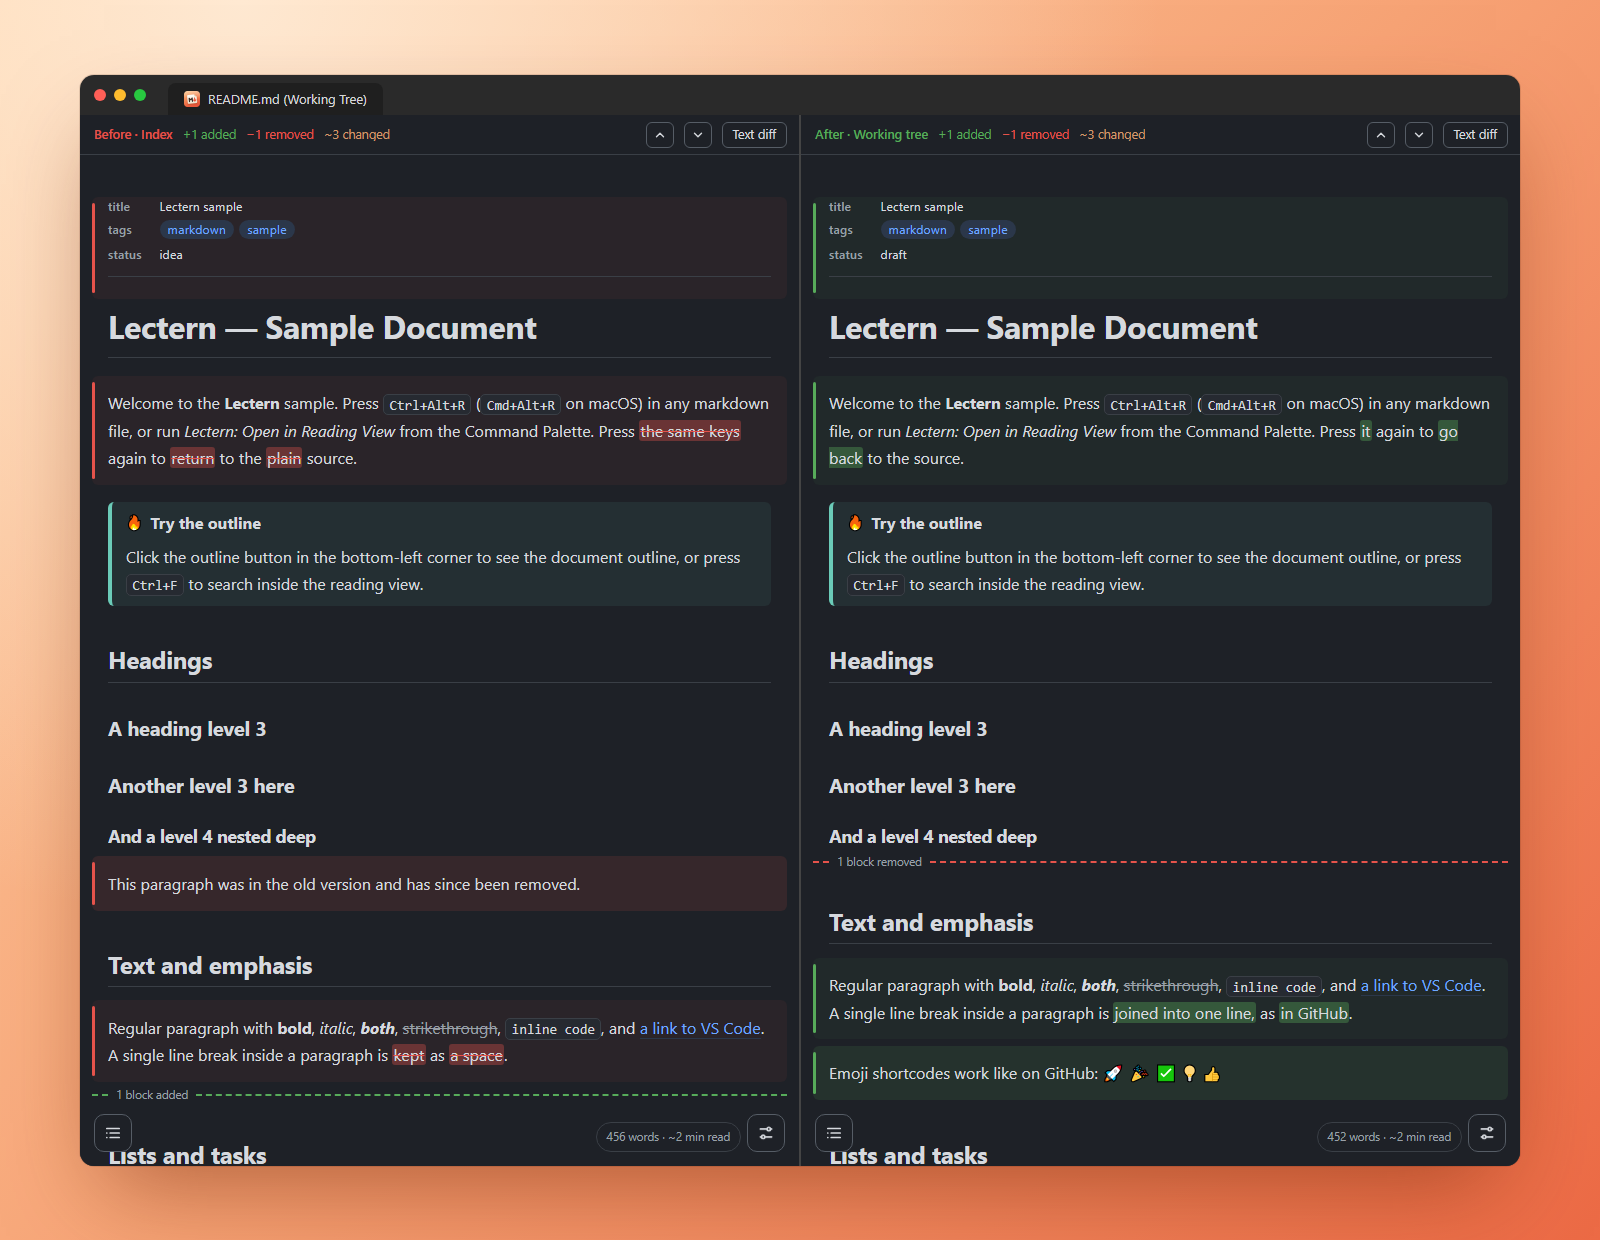
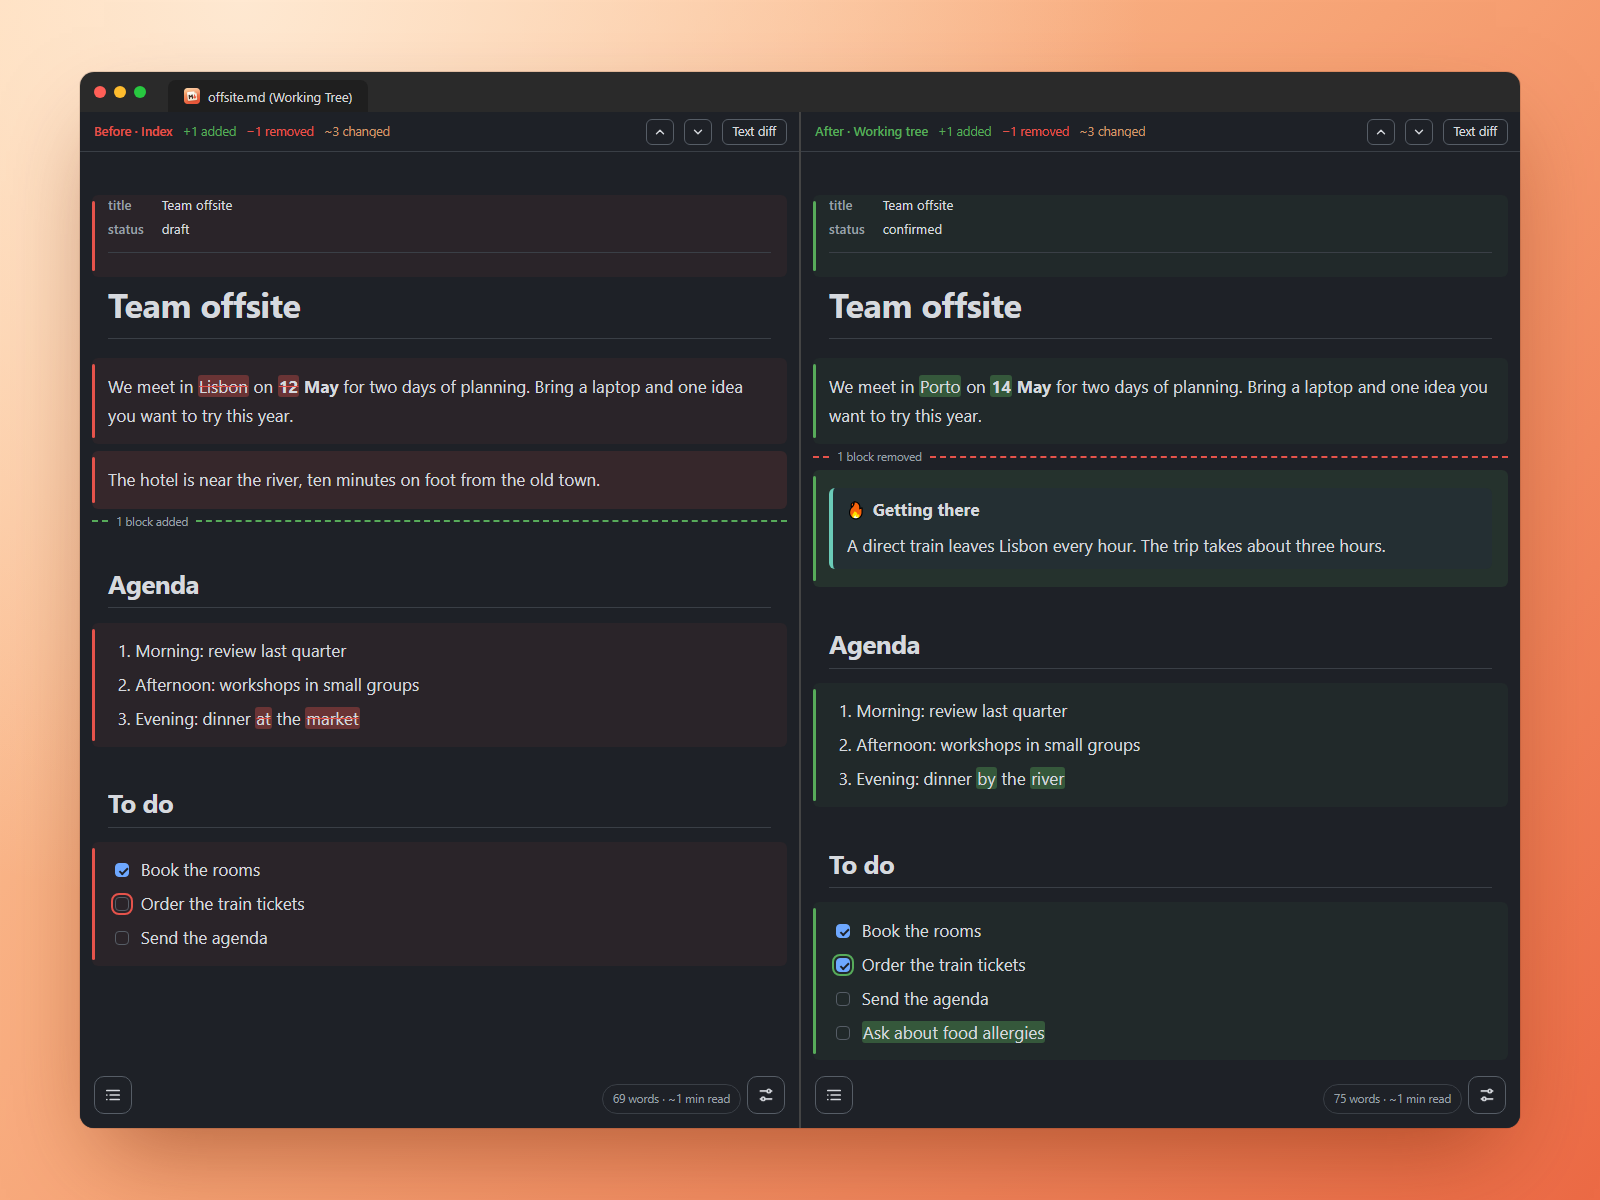
Show every kind of change in the diff screenshot, record a feature video
- README: the diff section comes first under Features, with a new screenshot
  of a short note that has changed words, a removed paragraph, an added
  callout, a ticked task and an added item (sample/diff/).
- Task rings match tasks by text, so they work when items were added too.
- screenshots.mjs --features records an MP4 and GIF of the new features.

diff --git a/src/webview/diffview.ts b/src/webview/diffview.ts
@@ -47,13 +47,19 @@ export function highlightWords(root: HTMLElement, summary: DiffSummary, info: Di
 
 /** Ring the task boxes that were ticked or unticked, which word marks can't show. */
 function markTaskChanges(block: HTMLElement, other: HTMLElement): void {
-  const mine = block.querySelectorAll<HTMLInputElement>("input.task-cb");
-  const theirs = other.querySelectorAll<HTMLInputElement>("input.task-cb");
-  if (mine.length !== theirs.length) {
-    return;
-  }
-  mine.forEach((cb, i) => {
-    if (cb.checked !== theirs[i].checked) {
+  const tasks = (el: HTMLElement) =>
+    [...el.querySelectorAll<HTMLInputElement>("input.task-cb")].map((cb) => ({
+      cb,
+      text: (cb.closest("li")?.textContent ?? "").trim(),
+    }));
+  const mine = tasks(block);
+  const theirs = tasks(other);
+  // Match tasks by their text, so items added or removed around them don't matter;
+  // a task whose text also changed is matched by position when the counts agree.
+  const byText = new Map(theirs.map((t) => [t.text, t.cb.checked]));
+  mine.forEach(({ cb, text }, i) => {
+    const was = byText.has(text) ? byText.get(text) : mine.length === theirs.length ? theirs[i].cb.checked : undefined;
+    if (was !== undefined && was !== cb.checked) {
       cb.classList.add("diff-task");
       cb.title = cb.checked ? "Ticked in this version" : "Not ticked in this version";
     }

diff --git a/README.md b/README.md
@@ -58,6 +58,30 @@ the Command Palette.
 
 ## Features
 
+### See what changed
+
+Read your changes the way they'll look, not as lines of Markdown. In a diff of a
+Markdown file (for example after clicking a changed file in **Source Control**), press
+**`Ctrl+Alt+R`** or click the **book icon**. Lectern shows the old and new versions side
+by side:
+
+- **Added** blocks are green and **removed** blocks are red, with a dashed line on the
+  other side where they were.
+- **Changed** blocks are light red on the left (the old text) and light green on the
+  right (the new text). The words that changed are highlighted more strongly.
+- A task box that was ticked or unticked has a **ring** around it. Done tasks are not
+  struck through in a diff, so a line through text always means it was removed.
+- Both sides **scroll together**. The bar at the top counts the changes, jumps to the
+  previous or next one (**`Alt+↑`** / **`Alt+↓`**), and **Text diff** goes back to the
+  normal diff. `Ctrl+Alt+R` does that too.
+
+<p align="center">
+  <img src="images/screenshots/diff.png" alt="A Markdown diff in Lectern. Left, the old version in red: the words Lisbon, 12, at and market marked, a paragraph about the hotel that was removed, and the task Order the train tickets not ticked. Right, the new version in green: Porto, 14, by and river marked, a new Getting there callout, the same task now ticked with a ring around its box, and a new task Ask about food allergies.">
+</p>
+
+To open every Markdown diff this way, run **Lectern: Toggle Opening Markdown Changes in
+Reading View** from the Command Palette. Run it again to go back to text diffs.
+
 ### A palette for every light
 
 Read in **Light**, **Sepia**, **Dark** or **Black**, or let **Editor** follow your VS Code
@@ -169,30 +193,6 @@ to every file.
 <p align="center">
   <img src="images/screenshots/settings.png" alt="The reading settings panel in the Sepia palette">
 </p>
-
-### See what changed
-
-Read your changes the way they'll look, not as lines of Markdown. In a diff of a
-Markdown file (for example after clicking a changed file in **Source Control**), press
-**`Ctrl+Alt+R`** or click the **book icon**. Lectern shows the old and new versions side
-by side:
-
-- **Added** blocks are green and **removed** blocks are red, with a dashed line on the
-  other side where they were.
-- **Changed** blocks are light red on the left (the old text) and light green on the
-  right (the new text). The words that changed are highlighted more strongly.
-- A task box that was ticked or unticked has a **ring** around it. Done tasks are not
-  struck through in a diff, so a line through text always means it was removed.
-- Both sides **scroll together**. The bar at the top counts the changes, jumps to the
-  previous or next one (**`Alt+↑`** / **`Alt+↓`**), and **Text diff** goes back to the
-  normal diff. `Ctrl+Alt+R` does that too.
-
-<p align="center">
-  <img src="images/screenshots/diff.png" alt="A Markdown diff in Lectern: the old version on the left in red with a removed paragraph and the changed words marked, the new version on the right with added words and an added paragraph in green">
-</p>
-
-To open every Markdown diff this way, run **Lectern: Toggle Opening Markdown Changes in
-Reading View** from the Command Palette. Run it again to go back to text diffs.
 
 ### And the little things
 

diff --git a/docs/development.md b/docs/development.md
@@ -119,8 +119,13 @@ Set `CHROME` / `FFMPEG` if they are not found; without ffmpeg only the stills ar
 `node scripts/screenshots.mjs --gif-only` re-records just the GIF, `--stills-only` skips
 it, `--diff-only` makes just `diff.png` and `--still=<name>` makes one still (e.g.
 `--still=mindmap`). The stills are the `stills` / `tiles` lists,
-`shootDiff()` diffs `sample/README.md` against an older version made by `DIFF_EDITS`,
-and the GIF storyboard is `recordDemo()`. Run it after visible UI changes so the README stays accurate.
+`shootDiff()` diffs `sample/diff/before.md` against `sample/diff/after.md` (one short
+note with each kind of change), and the GIF storyboard is `recordDemo()`. Run it after
+visible UI changes so the README stays accurate.
+
+`node scripts/screenshots.mjs --features` records a short video of the newest features
+for release posts (`recordFeatures()`): an MP4 and a smaller GIF in `out/features/`,
+which is not committed. Update its storyboard for each release.
 
 ### Releasing
 1. Move the **Unreleased** notes in `CHANGELOG.md` under the new version.

diff --git a/sample/diff/after.md b/sample/diff/after.md
@@ -1,0 +1,25 @@
+---
+title: Team offsite
+status: confirmed
+---
+
+# Team offsite
+
+We meet in Porto on **14 May** for two days of planning. Bring a laptop and one idea you
+want to try this year.
+
+> [!tip] Getting there
+> A direct train leaves Lisbon every hour. The trip takes about three hours.
+
+## Agenda
+
+1. Morning: review last quarter
+2. Afternoon: workshops in small groups
+3. Evening: dinner by the river
+
+## To do
+
+- [x] Book the rooms
+- [x] Order the train tickets
+- [ ] Send the agenda
+- [ ] Ask about food allergies

diff --git a/sample/diff/before.md b/sample/diff/before.md
@@ -1,0 +1,23 @@
+---
+title: Team offsite
+status: draft
+---
+
+# Team offsite
+
+We meet in Lisbon on **12 May** for two days of planning. Bring a laptop and one idea you
+want to try this year.
+
+The hotel is near the river, ten minutes on foot from the old town.
+
+## Agenda
+
+1. Morning: review last quarter
+2. Afternoon: workshops in small groups
+3. Evening: dinner at the market
+
+## To do
+
+- [x] Book the rooms
+- [ ] Order the train tickets
+- [ ] Send the agenda
